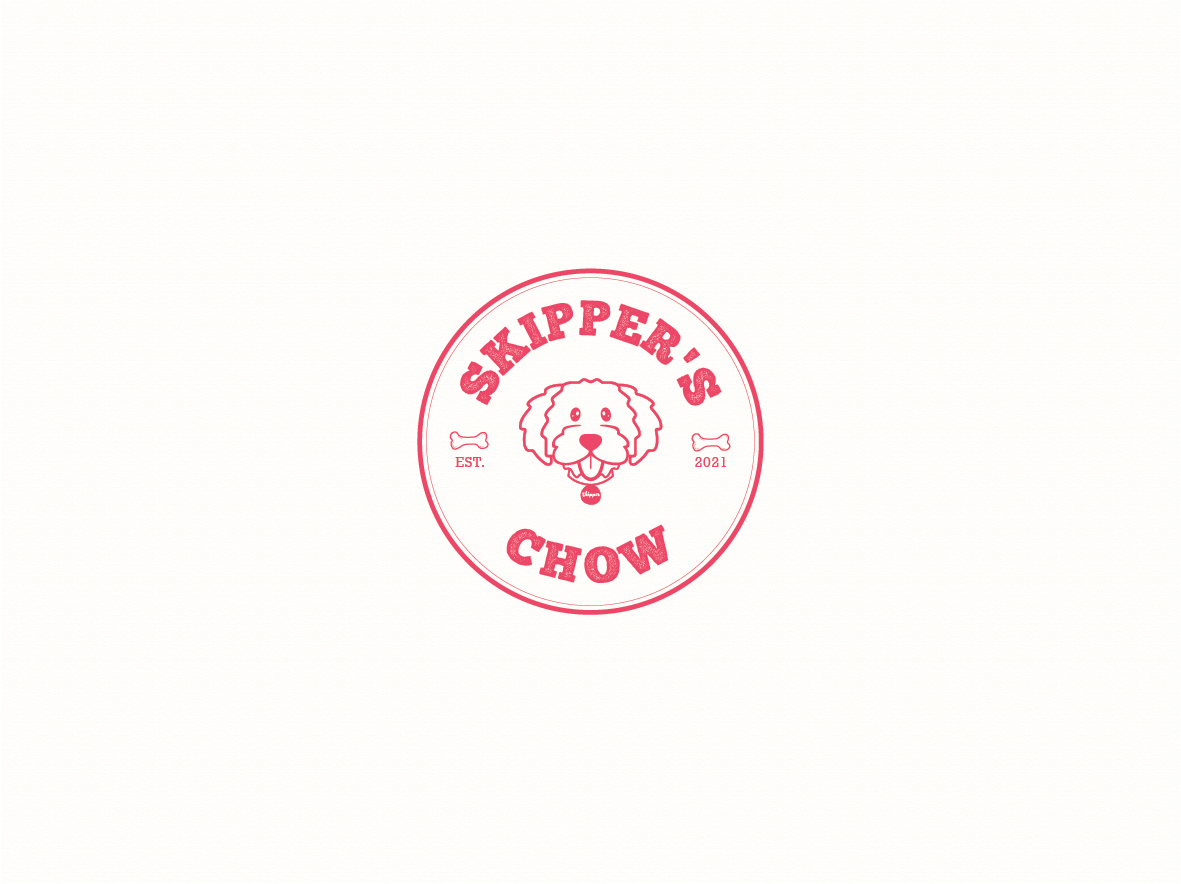
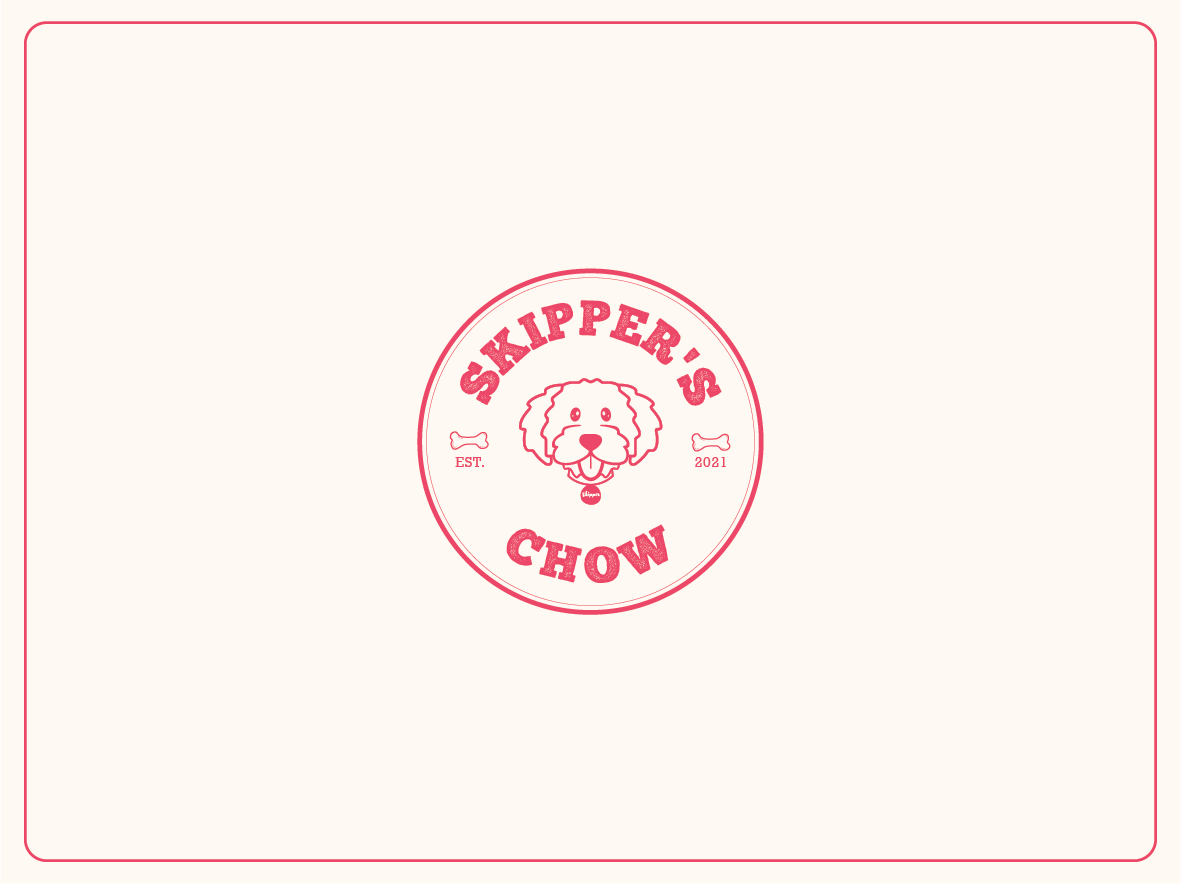
Update bg color and Skipper's covers

diff --git a/css/style.css b/css/style.css
@@ -5,7 +5,7 @@ html {
 }
 
 body {
-    background-color: #FCF9F5;
+    background-color: #FFFCF8;
 }
 
 h1,
